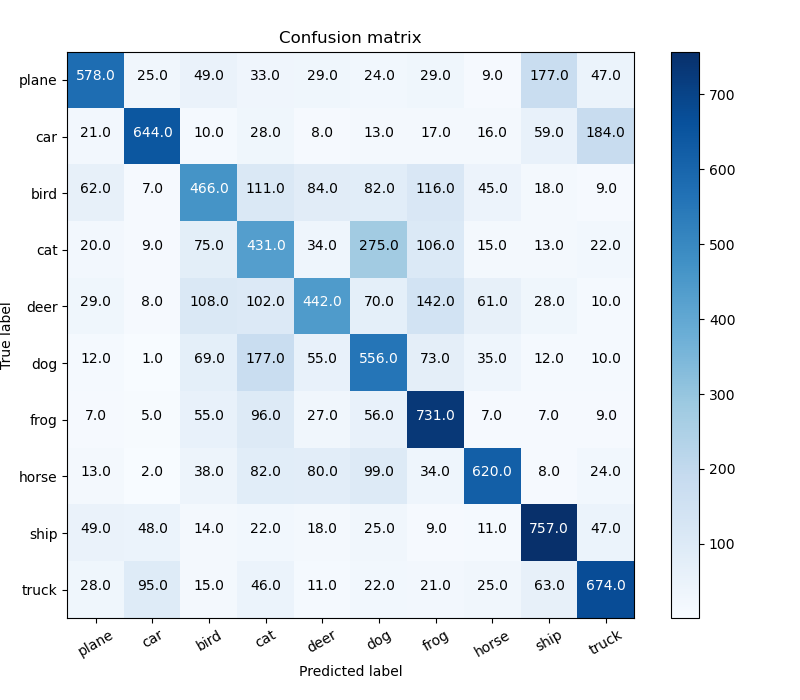
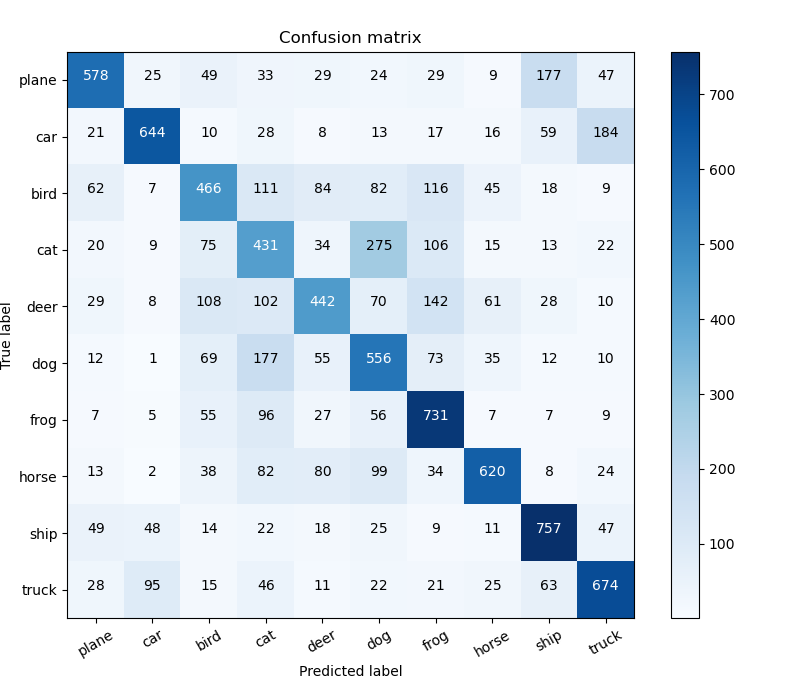
organise the code

diff --git a/test.py b/test.py
@@ -70,6 +70,11 @@ def build_runner(opt):
 
 
 def compute_confusion_matrix(pred, gt, num_classes):
+    """
+    Compute the Confusion Matrix
+    :para Prediction of Class Labels
+    :para Ground Truth of Class Labels
+    """
     confusion_matrix = np.zeros((num_classes, num_classes))
     for i in range(len(pred)):
         confusion_matrix[gt[i], pred[i]] += 1
@@ -80,6 +85,8 @@ def plot_confusion_matrix(confusion_matrix, classes, normalize=False, title='Con
     """
     This function prints and plots the confusion matrix.
     Normalization can be applied by setting `normalize=True`.
+    :para confusion_matrix: the confusion matrix in the numpy format
+    :para classes: the number of classes
     """
     if normalize:
         confusion_matrix = confusion_matrix.astype('float') / confusion_matrix.sum(axis=1)[:, np.newaxis]
@@ -91,7 +98,7 @@ def plot_confusion_matrix(confusion_matrix, classes, normalize=False, title='Con
     plt.xticks(tick_marks, classes, rotation=30)
     plt.yticks(tick_marks, classes)
 
-    fmt = '.2f' if normalize else '0.1f'
+    fmt = '.2f' if normalize else '0.0f'
     thresh = confusion_matrix.max() / 2.
     for i, j in itertools.product(range(confusion_matrix.shape[0]), range(confusion_matrix.shape[1])):
         plt.text(j, i, format(confusion_matrix[i, j], fmt),

diff --git a/models/base_model.py b/models/base_model.py
@@ -25,16 +25,6 @@ class BaseModel(nn.Module):
         self.backbone.add_module('flatten', nn.Flatten())
         self.classifier = nn.Linear(self.linear_out, 10)
 
-        # fake model for testing
-        # self.backbone = nn.Sequential(
-        #     nn.Conv2d(3, 64, kernel_size=3, stride=1, padding=1, bias=False),
-        #     nn.BatchNorm2d(64),
-        #     nn.ReLU(inplace=True),
-        #     nn.MaxPool2d(kernel_size=3, stride=2, padding=1),
-        # )
-        # self.backbone.add_module('flatten', nn.Flatten())
-        # self.classifier = nn.Linear(64 * 32 * 32, 10)
-
     def forward(self, x):
         x = self.backbone(x)
         x = self.classifier(x)

diff --git a/utils/utils.py b/utils/utils.py
@@ -19,11 +19,18 @@ def fix_seed(seed):
 
 
 def mkdir_if_missing(directory):
+    '''
+    The function mkdir_if_missing checks whether a directory exists or not.
+    If the directory does not exist, the function creates the directory using the os.makedirs method.
+    '''
     if not os.path.exists(directory):
         os.makedirs(directory)
 
 
 def make_project_dirs(save_dir):
+    '''
+    Create the required directories
+    '''
     mkdir_if_missing(save_dir)
     mkdir_if_missing(os.path.join(save_dir, "checkpoints"))
     mkdir_if_missing(os.path.join(save_dir, "false_positives"))

diff --git a/runner.py b/runner.py
@@ -13,6 +13,9 @@ cifar10 = ['plane', 'car', 'bird', 'cat', 'deer', 'dog', 'frog', 'horse', 'ship'
 
 
 def invTrans(img):
+    '''
+    Perform inverse transformation of image.
+    '''
     return T.Normalize(
         mean=[-0.485 / 0.229, -0.456 / 0.224, -0.406 / 0.225],
         std=[1 / 0.229, 1 / 0.224, 1 / 0.255]
